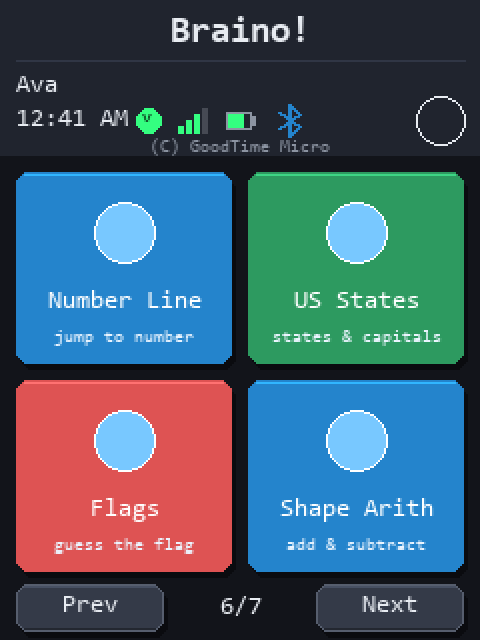
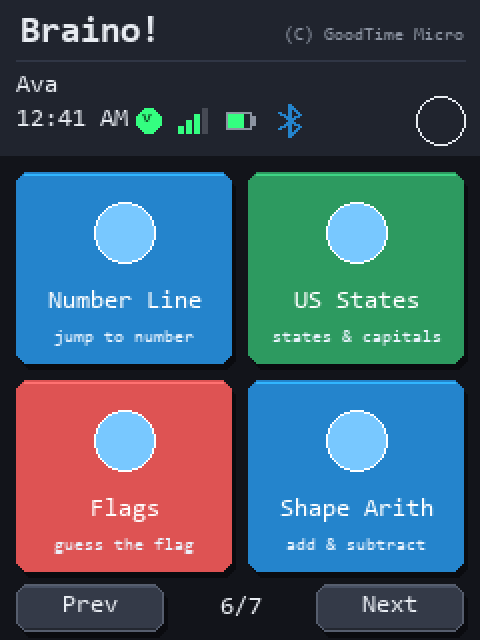
Give the portrait copyright room by unstacking the header
Tucked into the 68..78 gap under the badge row it fit, but only just -- eight
pixels of glyph in a ten pixel band, hard against the tiles below. Sharing the
title row is the only placement on this screen with real air around it: at 240px
"Braino!" runs to about x=80 at font 4 and the copyright right-aligns from about
x=124, leaving roughly 44px between them.

That costs portrait its centred title, which is a fair trade and also makes the
three headers agree -- the landscape launcher and the Profiles picker both set
the title left and the copyright right already. The 44px is the whole budget and
the comment says so, because it is a function of the product name being short.

Changed region(s): [[0.0312, 0.0312, 0.9688, 0.0625], [0.3125, 0.2188, 0.6875, 0.25]]

diff --git a/src/engine/AppRuntimeLauncher.cpp b/src/engine/AppRuntimeLauncher.cpp
@@ -139,8 +139,26 @@ void LauncherGame::render(GameHost& host) {
     tft.setTextDatum(ML_DATUM);
 
     if (tall) {
-        tft.setTextDatum(MC_DATUM);
-        tft.drawString(BRAINO_PRODUCT_NAME, static_cast<int16_t>(lW / 2), 17, 4);
+        /* Title left, copyright right, on one row.
+         *
+         * The title used to be centred and the copyright was not drawn at all;
+         * squeezed into the 68..78 gap under the badges it was legible but
+         * cramped. Sharing the title row is the only placement with real air
+         * around it, and it costs the centred title -- worth it, and it now
+         * matches both the landscape launcher and the Profiles header.
+         *
+         * At 240px: "Braino!" at font 4 runs from x=10 to about x=80, the
+         * copyright at font 1 is ~108px right-aligned to x=232, so it starts
+         * near x=124. Roughly 44px of air between them. That slack is the whole
+         * budget -- a longer product name eats it, so re-measure this row before
+         * changing BRAINO_PRODUCT_NAME. Nothing else uses y=4..30 in portrait;
+         * the gear sits at y=48..72. */
+        tft.setTextDatum(ML_DATUM);
+        tft.drawString(BRAINO_PRODUCT_NAME, 10, 17, 4);
+        tft.setTextColor(Ui::muted(), Ui::surface());
+        tft.setTextDatum(MR_DATUM);
+        tft.drawString(BRAINO_COPYRIGHT_SHORT, static_cast<int16_t>(lW - 8), 17, 1);
+        tft.setTextColor(Ui::text(), Ui::surface());
         tft.setTextDatum(ML_DATUM);
         tft.setTextColor(Ui::text(), Ui::surface());
         tft.drawString(Ui::fitted(tft, board.profileName(board.activeProfile()),
@@ -162,21 +180,6 @@ void LauncherGame::render(GameHost& host) {
         }
         tft.drawFastHLine(8, 30, static_cast<int16_t>(lW - 16), Ui::shade(Ui::surface(), 150));
 
-        /* The copyright, which portrait simply never drew -- landscape had it
-         * and this branch did not, so half the owners never saw it on the home
-         * screen at all.
-         *
-         * It goes in the only gap left. The portrait header is 78 tall and
-         * every other row is spoken for: title 4..30, divider 30, profile
-         * 36..52, clock and badges 52..68, gear 48..72. That leaves 68..78, and
-         * font 1 is 8 tall, so centred on y=73 it occupies 69..77 with a pixel
-         * either side. The header cannot simply grow: portrait tiles end at 286
-         * and the pager starts at 292. Re-measure all of that before adding
-         * anything else to this header. */
-        tft.setTextColor(Ui::muted(), Ui::surface());
-        tft.setTextDatum(MC_DATUM);
-        tft.drawString(BRAINO_COPYRIGHT_SHORT, static_cast<int16_t>(lW / 2), 73, 1);
-        tft.setTextDatum(ML_DATUM);
     } else {
         tft.drawString(BRAINO_PRODUCT_NAME, 10, 16, 4);
         tft.setTextColor(Ui::muted(), Ui::surface());

diff --git a/tools/gen_screens.py b/tools/gen_screens.py
@@ -410,13 +410,11 @@ def launcher_wide():
 def launcher_tall():
     im = Image.new("RGB", (240, 320), BG); d = ImageDraw.Draw(im)
     d.rectangle([0, 0, 239, 77], fill=SURFACE)
-    t = PRODUCT
-    d.text((120 - d.textlength(t, font=F4) / 2, 6), t, font=F4, fill=TEXT)
-    d.line([(8, 30), (232, 30)], fill=shade(SURFACE, 150))
-    # Copyright in the 68..78 gap at the bottom of the header -- the only room
-    # portrait has for it. See AppRuntimeLauncher.cpp.
-    d.text((120 - d.textlength(COPYRIGHT_SHORT, font=F1) / 2, 69), COPYRIGHT_SHORT,
+    # Title left, copyright right, sharing the top row. See AppRuntimeLauncher.
+    d.text((10, 6), PRODUCT, font=F4, fill=TEXT)
+    d.text((232 - d.textlength(COPYRIGHT_SHORT, font=F1), 13), COPYRIGHT_SHORT,
            font=F1, fill=MUTED)
+    d.line([(8, 30), (232, 30)], fill=shade(SURFACE, 150))
     d.text((8, 36), "Ava", font=F2, fill=TEXT)
     d.text((8, 53), "12:41 AM", font=F2, fill=TEXT)
     bx = int(8 + d.textlength("12:41 AM", font=F2) + 10)

diff --git a/CHANGELOG.md b/CHANGELOG.md
@@ -74,8 +74,9 @@
   written out three times and one copy was wrong.
 - **The launcher never drew the copyright in Vertical layout.** The landscape
   branch drew it and the portrait branch did not, so owners running the device
-  in portrait never saw it on the home screen. It now sits in the one gap the
-  portrait header has left, below the clock and badge row.
+  in portrait never saw it on the home screen. It now shares the top row with
+  the title, right-aligned, which costs portrait its centred title and makes the
+  launcher and Profiles headers agree.
 - **Profiles.** "Who is playing?" and the guest hint overlapped each other in
   both orientations, and in portrait the hint ran straight through the first
   profile row. In portrait the copyright line also collided with the title,

diff --git a/CLAUDE.md b/CLAUDE.md
@@ -247,7 +247,7 @@ The same reasoning applies to any lock PlatformIO itself leaves in `~/.platformi
 
 ### Shared budgets
 
-Flash is global and nearly the binding constraint (2,313,693 / 3,145,728 bytes,
+Flash is global and nearly the binding constraint (2,313,705 / 3,145,728 bytes,
 **73.6%**; NimBLE plus the BT controller account for ~192 KB of that). RAM sits
 at 68,268 / 327,680 (20.8%) -- higher than it was, deliberately: RowList traded
 864 bytes of static RAM for zero heap traffic and storage diagnostics keep their

diff --git a/README.md b/README.md
@@ -16,7 +16,7 @@ no data collection.** Two radios exist and both are narrow by design:
 | | |
 |---|---|
 | Games | 30 |
-| Flash | 2,313,693 / 3,145,728 bytes (**73.6%**) |
+| Flash | 2,313,705 / 3,145,728 bytes (**73.6%**) |
 | RAM | 68,268 / 327,680 bytes (**20.8%**) |
 | Artwork | 195 country flags, 50 state flags, 50 state outlines — 763 KB (34% of the image) |
 
